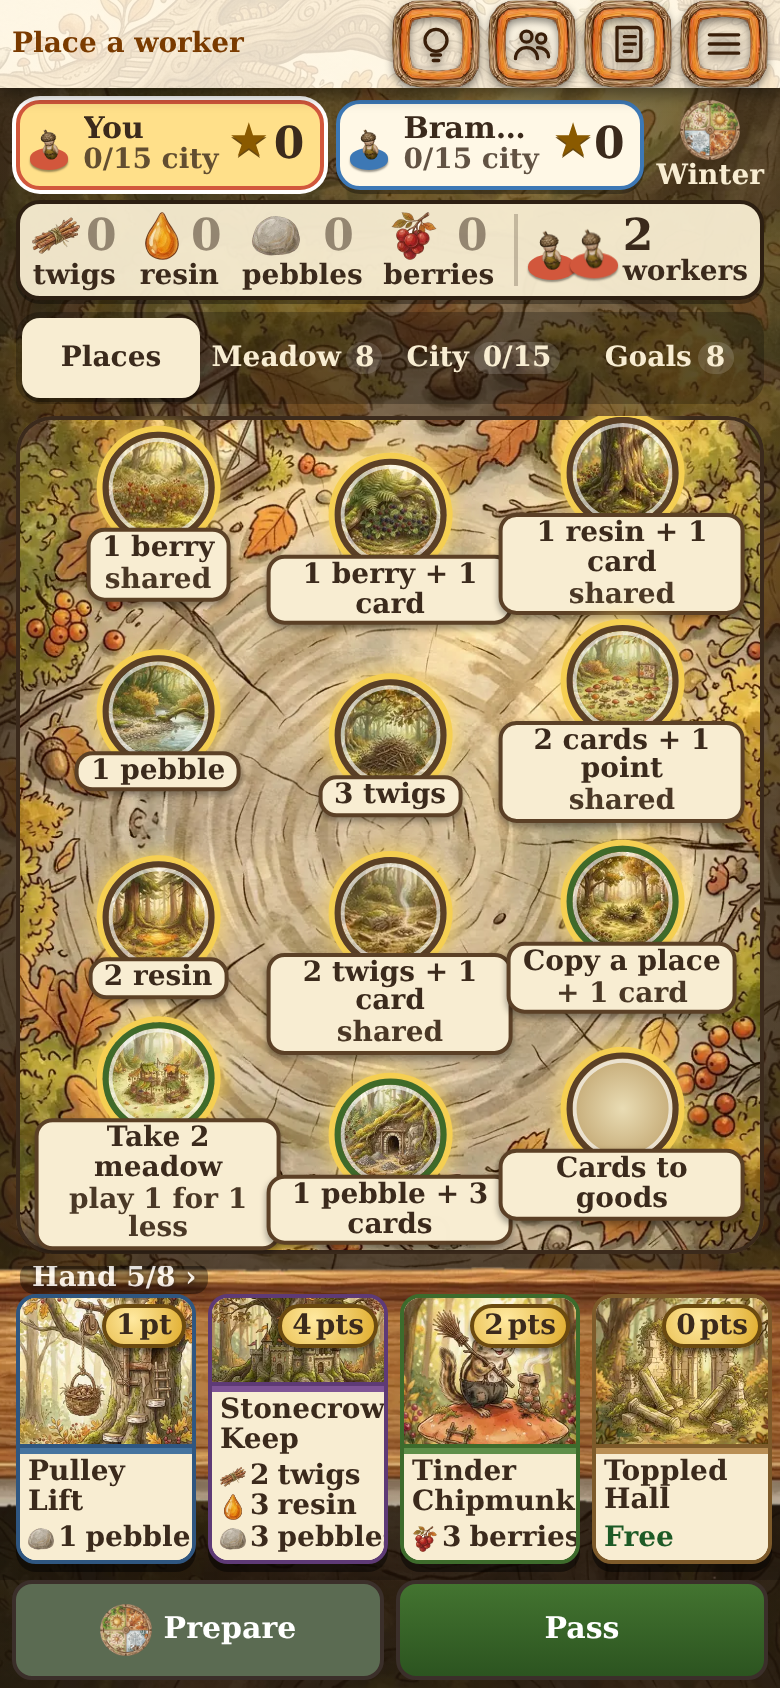
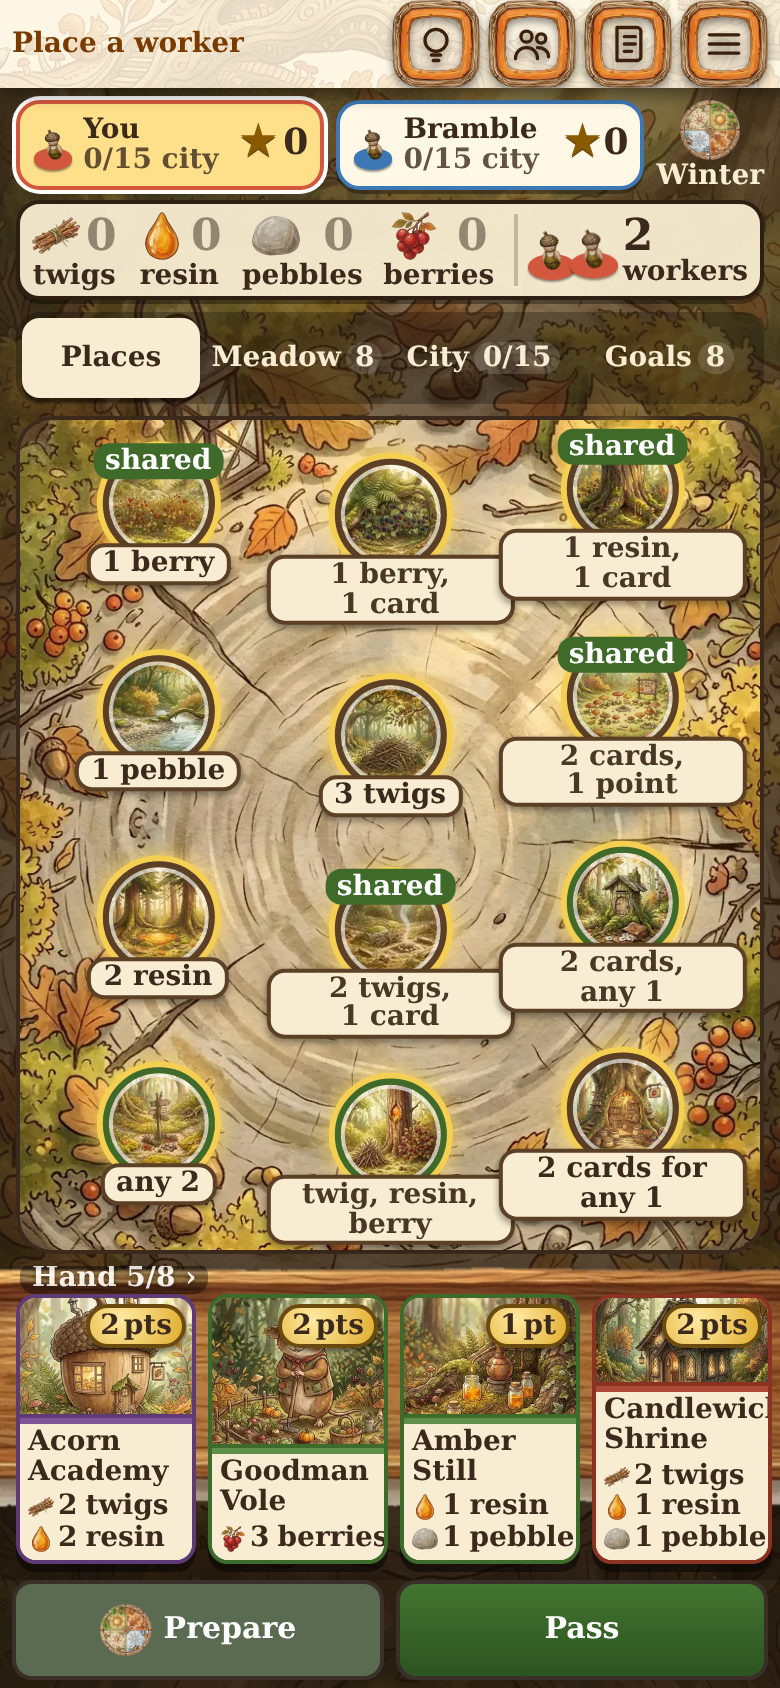
Hollowbough W482: board plates at most 2 lines with a shared tag, 4x3 board on short phones, painting for the 2-cards place, full player names

diff --git a/games-src/hollowbough/game/src/ui2.js b/games-src/hollowbough/game/src/ui2.js
@@ -510,6 +510,7 @@ const PV_SPECIAL = {
   forest_rummage_hollow: ['Swap cards', 'draw 2 per discard', 'card'], forest_echoing_meadow: ['Copy a place', '+ 1 card', 'copy'],
   forest_barter_stump: ['Cards to goods', '1 each, up to 3', 'any'], forest_meadow_bazaar: ['Take 2 meadow', 'play 1 for 1 less', 'meadow']
 };
+const PV_BOARD = { forest_rummage_hollow: 'Swap cards', forest_echoing_meadow: 'Copy a place', forest_barter_stump: 'Cards to goods', forest_mixed_glade: 'twig, resin, berry', forest_meadow_bazaar: 'Meadow: play 1 cheaper' };
 function pvSpot(kind, i) {
   const join = l => { const w = l.map(([k, n]) => pvWord(k, n)).filter(Boolean); return { main: w.slice(0, 2).join(' + '), sub: w.slice(2).join(' + '), ico: l[0] ? l[0][0] : 'any' }; };
   if (kind === 'basic') { const o = join(basicItems(i)); if (D.basic[i].shared) o.sub = o.sub ? o.sub + ' · shared' : 'shared'; return o; }
@@ -633,6 +634,13 @@ function pvRender() {
     const e = h('button.tile.t-' + kind + (small ? '.pv-small' : ''), { 'data-zoom': 'tile:' + kind + ':' + i, 'data-k': kind, 'data-i': i, type: 'button', 'aria-label': (info.name || '') + ': ' + w.main + (w.sub ? ', ' + w.sub : '') });
     { const key = kind === 'basic' ? D.basic[i].key : kind === 'forest' ? D.forest[G.forest[i]].key : kind === 'bev' ? D.basicEvents[G.bev[i].k].key : kind === 'sev' ? D.specialEvents[G.sev[i].k].key : kind;
       const ph = key && HBKit.paintedHref ? HBKit.paintedHref(key) : null; if (ph) { e.style.setProperty('--pa', 'url("' + ph + '")'); e.classList.add('pv-painted'); } }   // the place's own painting
+    if (tall && (kind === 'basic' || kind === 'forest' || kind === 'haven')) {   // phone board plate: at most 2 short lines, "shared" as a small tag
+      const fk = kind === 'forest' ? D.forest[G.forest[i]].key : '', sh = /shared/.test(w.sub || '');
+      const short = PV_BOARD[fk] || (kind === 'haven' ? '2 cards for any 1' : [w.main.replace(/ \+ /g, ', '), (w.sub || '').replace(/\s*·?\s*shared/, '')].filter(Boolean).join(', '));
+      const parts = short.split(', '); e.appendChild(h('span.pv-tin', h('span.pv-sw', h('b', parts.length < 2 ? short : parts.flatMap((t, j) => j ? [' ', h('span.pv-it', t + (j < parts.length - 1 ? ',' : ''))] : [h('span.pv-it', t + (parts.length > 1 ? ',' : ''))])))));   // each item stays whole on its line
+      if (sh) e.appendChild(h('span.pv-shtag', 'shared'));
+      if (kind === 'haven' && HBKit.paintedHref) { const ph = HBKit.paintedHref('general_store'); if (ph) { e.style.setProperty('--pa', 'url("' + ph + '")'); e.classList.add('pv-painted'); } }   // the haven has no painting of its own: the trading post card fits it
+    } else
     e.appendChild(h('span.pv-tin', h('span.pv-sico', ic(w.ico, small ? 22 : 26)), h('span.pv-sw', h('b', w.main), w.sub ? h('span', w.sub) : null)));
     const legal = tg && okw.has(tg);
     if (legal) { e.classList.add('glow'); regTg(tg, e); }
@@ -648,8 +656,9 @@ function pvRender() {
   for (let i = 0; i < G.forest.length; i++) cell(tile('forest', i));
   cell(tile('haven', 0));
   // phone: the places are round clearings on the painted tree-stump table (owner art), not a grid of boxes; staggered so it reads as a board
-  if (tall) { spots.classList.add('pv-board'); const n = spots.children.length, rows = Math.ceil(n / 3);
-    Array.from(spots.children).forEach((c, k) => { const r = Math.floor(k / 3), col = k % 3; c.style.left = [19, 50, 81][col] + '%'; c.style.top = (13 + r * 74 / Math.max(1, rows - 1) + (col === 1 ? 2 : -1)) + '%'; }); }
+  if (tall) { const short = H < 640, nc = short ? 4 : 3, xs = short ? [13, 38, 62, 87] : [19, 50, 81]; spots.classList.add('pv-board'); if (short) spots.classList.add('pv-board-s');   // short phones: 4 across, 3 rows
+    const n = spots.children.length, rows = Math.ceil(n / nc), y0 = short ? 15 : 13, yr = short ? 66 : 74;
+    Array.from(spots.children).forEach((c, k) => { const r = Math.floor(k / nc), col = k % nc; c.style.left = xs[col] + '%'; c.style.top = (y0 + r * yr / Math.max(1, rows - 1) + (col % 2 ? 2 : -1)) + '%'; }); }
   // ---- goals (events): their own panel, so Places fits one screen
   const pGo = panel('goals', 'Goals: first to qualify claims'), gl = h('div.pv-spots.pv-goals.pv-scrolly'); pGo.appendChild(gl);
   if (tall) gl.appendChild(h('div.pv-sub', 'Goals score points. Have the cards one needs? Send a worker to claim it.'));

diff --git a/games-src/hollowbough/game/pv.css b/games-src/hollowbough/game/pv.css
@@ -280,3 +280,20 @@ html.ph .tchip,html.ph .tchip b,html.ph .tchip span{font-size:max(14px,1em)!impo
 #bd.pv.tall .pv-board .tile.pv-spec .pv-sw span{display:none}
 #bd.pv.tall .pv-board .pv-sw b,#bd.pv.tall .pv-board .pv-sw span{line-height:1.05}
 #bd.pv.tall .pv-board .tile.t-haven .pv-sw span{display:none!important}
+/* W482 polish: plates at most 2 lines, a small "shared" tag on the clearing, full player names */
+#bd.pv.tall .pv-board .pv-shtag{position:absolute;top:-2px;left:50%;transform:translateX(-50%);font-size:14px;font-weight:800;line-height:1;padding:2px 6px;border-radius:8px;background:#3f6a2a;color:#fff;z-index:2;white-space:nowrap}
+#bd.pv.tall .pv-board .pv-cell{width:34%}
+#bd.pv.tall .pv-board .pv-tin{max-width:124px}
+#bd.pv.tall .pvch-n{overflow:visible;text-overflow:clip}
+#bd.pv.tall .chips .chip{gap:4px;padding-left:6px;padding-right:6px}
+#bd.pv.tall .pvch-pt{font-size:20px}
+#bd.pv.tall .pv-board-s .pv-cell{width:25%}
+#bd.pv.tall .pv-board-s .tile::before{width:36px;height:36px;border-width:2px}
+#bd.pv.tall .pv-board-s .pv-tin{max-width:92px;padding:1px 3px;margin-top:-5px}
+#bd.pv.tall .pv-board-s .pv-shtag{top:-8px;padding:1px 4px}
+#bd.pv.tall .pv-board .pv-sw b .pv-it{display:inline;white-space:nowrap;font:inherit}
+#bd.pv.tall .pv-board .tile .pv-sw b .pv-it{display:inline!important}
+#bd.pv.tall .pvch-n{font-size:14px}#bd.pv.tall .pvch-pt{font-size:18px;flex:none}#bd.pv.tall .pvch-t{min-width:0}
+#bd.pv.tall .pvch-pt{font-size:17px;margin-left:auto;padding-left:3px}#bd.pv.tall .pvch-star{font-size:14px}
+#bd.pv.tall .chip .pawnw{transform:scale(.85);margin:0 -2px}
+#bd.pv.tall .pvsea b{font-size:14px}
